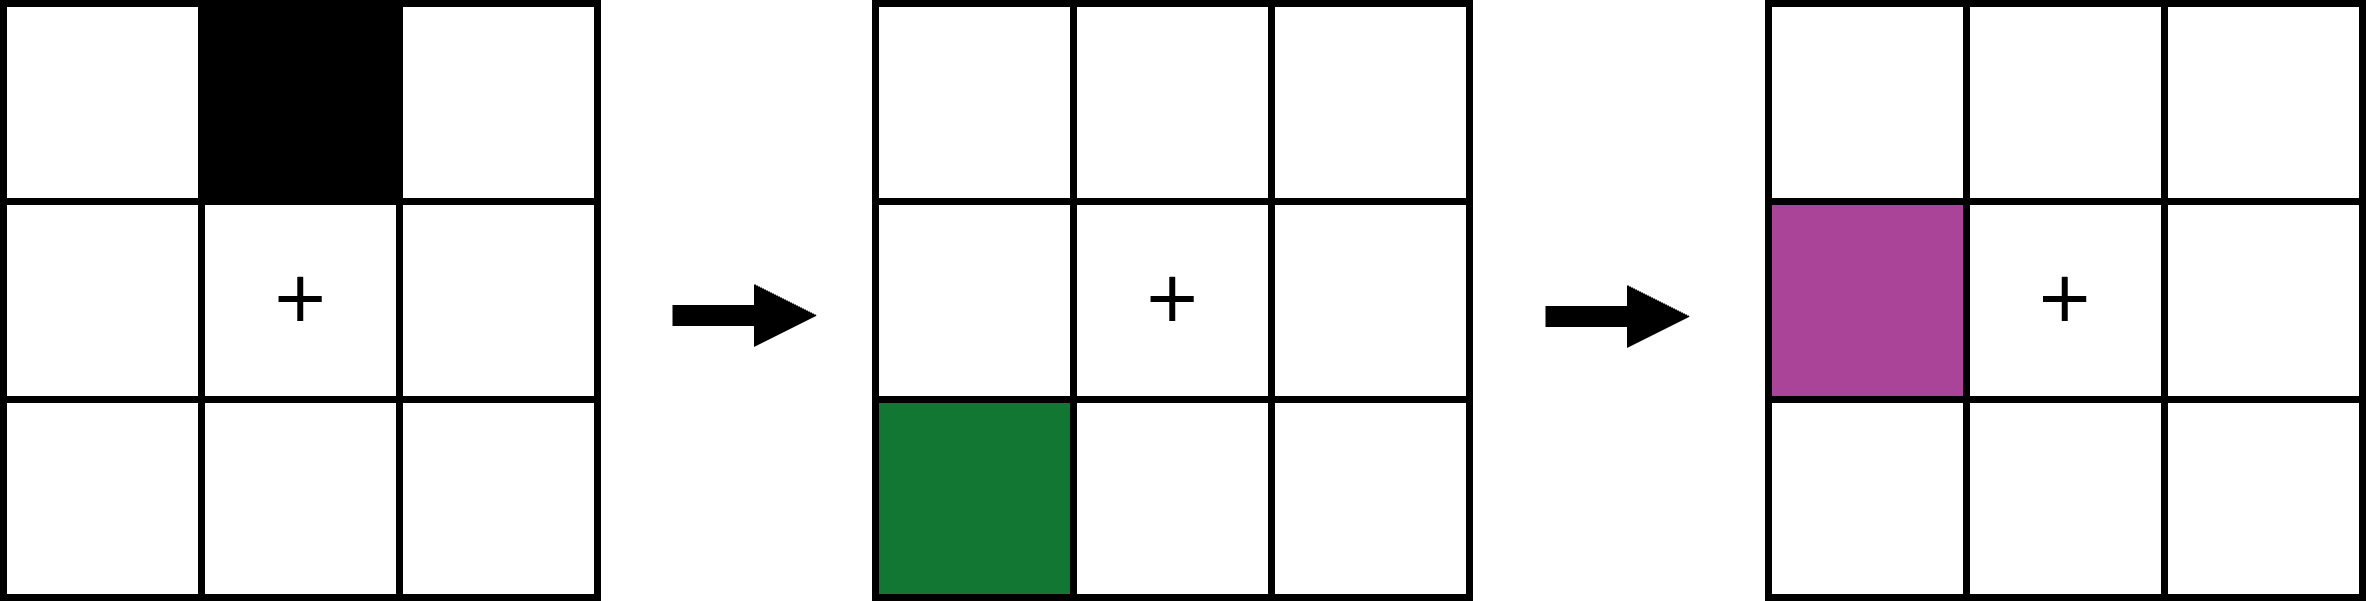
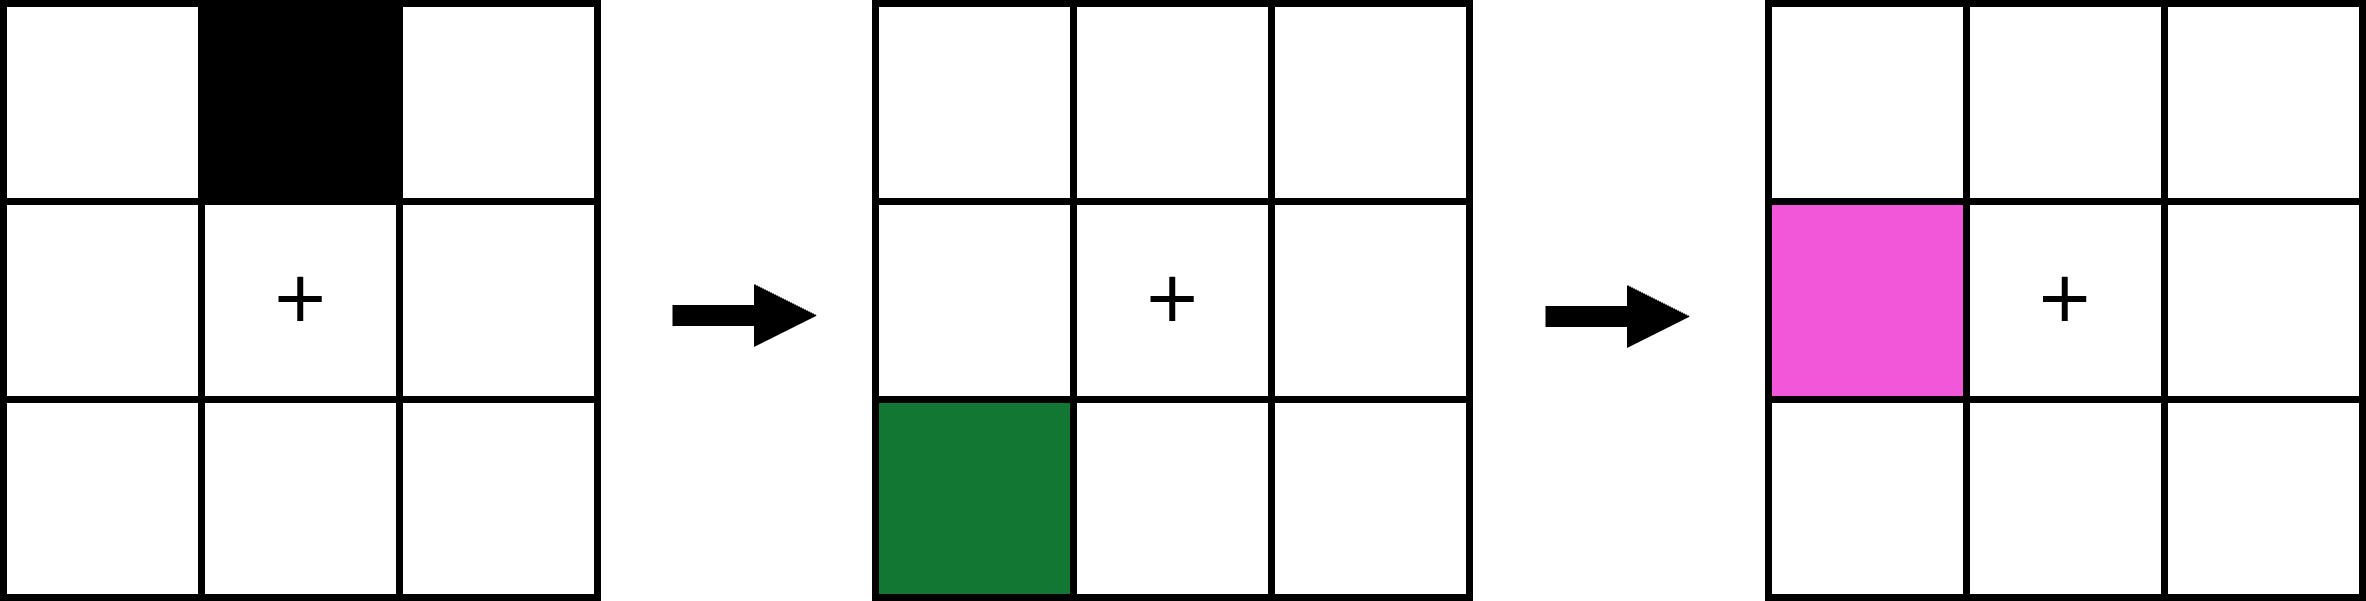
change color scheme in binding-updating instructions

Changed region(s): [[0.7405, 0.3295, 0.8331, 0.6589]]

diff --git a/materials/pilot/updating_binding/0_upd_bind_instructions.js b/materials/pilot/updating_binding/0_upd_bind_instructions.js
@@ -89,15 +89,15 @@ var bind_upd_color_instructions = {
         //page 2
         "<p style = 'text-align: center;'>"+
           "Soms wordt in elk vakje maar &#233;&#233;n kleur getoond.<br><br>" +
-          "In het voorbeeld hieronder zie je eerst '<strong><font color='#000000'>zwart</font></strong>' midden-boven, dan '<strong><font color='#117733'>groen</font></strong>' linksonder, en tot slot '<strong><font color = '#AA4499'>paars</font></strong>' linksmidden.<br>" +
-          "De kleuren die je moet onthouden zijn dus '<strong><font color='#000000'>zwart</font></strong>', '<strong><font color='#117733'>groen</font></strong>', en '<strong><font color = '#AA4499'>paars</font></strong>'.<br><br><br>" +
+          "In het voorbeeld hieronder zie je eerst '<strong><font color='#000000'>ZWART</font></strong>' midden-boven, dan '<strong><font color='#117733'>GROEN</font></strong>' linksonder, en tot slot '<strong><font color = '#F357D9'>ROZE</font></strong>' linksmidden.<br>" +
+          "De kleuren die je moet onthouden zijn dus '<strong><font color='#000000'>ZWART</font></strong>', '<strong><font color='#117733'>GROEN</font></strong>', en '<strong><font color = '#F357D9'>ROZE</font></strong>'.<br><br><br>" +
           "<img width = 500 src = updating_binding/img/instr05.png></img><br><br>",
 
         //page 3
           "Soms worden meerdere kleuren getoond in hetzelfde vakje.<br><br>" +
-          "In het voorbeeld hieronder zie je eerst '<strong><font color='#CC6677'>roze</font></strong>' rechtsmidden, dan '<strong><font color='#88CCEE'>lichtblauw</font></strong>' linksboven, en tot slot '<strong><font color='#117733'>groen</font></strong>' rechtsmidden.<br>" +
-          "In dit geval is '<strong><font color='#CC6677'>roze</font></strong>' vervangen door '<strong><font color='#117733'>groen</font></strong>'.<br>" +
-          "De kleuren die je moet onthouden zijn dus '<strong><font color='#88CCEE'>lichtblauw</font></strong>' en '<strong><font color='#117733'>groen</font></strong>'.<br><br><br>" +
+          "In het voorbeeld hieronder zie je eerst '<strong><font color='#888888'>GRIJS</font></strong>' rechtsmidden, dan '<strong><font color='#88CCEE'>BLAUW</font></strong>' linksboven, en tot slot '<strong><font color='#117733'>GROEN</font></strong>' rechtsmidden.<br>" +
+          "In dit geval is '<strong><font color='#888888'>GRIJS</font></strong>' vervangen door '<strong><font color='#117733'>GROEN</font></strong>'.<br>" +
+          "De kleuren die je moet onthouden zijn dus '<strong><font color='#88CCEE'>BLAUW</font></strong>' en '<strong><font color='#117733'>GROEN</font></strong>'.<br><br><br>" +
           '<img width = 500 src = updating_binding/img/instr06.png></img><br><br>',
 
           //page 4
@@ -145,10 +145,11 @@ var bind_upd_number_to_color_transition = {
 
         //page 2
         "<p style = 'text-align: center;'>"+
-          "In het voorbeeld hieronder zie je eerst '<strong>roze</strong>' rechtsmidden, dan '<strong>lichtblauw</strong>' linksboven, en tot slot '<strong>groen</strong>' rechtsmidden.<br>" +
-          "In dit geval is '<strong>roze</strong>' vervangen door '<strong>groen</strong>'.<br>" +
-          "De kleuren die je moet onthouden zijn dus '<strong>lichtblauw</strong>' en '<strong>groen</strong>'.<br><br><br>" +
+          "In het voorbeeld hieronder zie je eerst '<strong><font color='#888888'>GRIJS</font></strong>' rechtsmidden, dan '<strong><font color='#88CCEE'>BLAUW</font></strong>' linksboven, en tot slot '<strong><font color='#117733'>GROEN</font></strong>' rechtsmidden.<br>" +
+          "In dit geval is '<strong><font color='#888888'>GRIJS</font></strong>' vervangen door '<strong><font color='#117733'>GROEN</font></strong>'.<br>" +
+          "De kleuren die je moet onthouden zijn dus '<strong><font color='#88CCEE'>BLAUW</font></strong>' en '<strong><font color='#117733'>GROEN</font></strong>'.<br><br><br>" +
           '<img width = 500 src = updating_binding/img/instr06.png></img><br><br>',
+
 
           //page 4
           "Als alle kleuren zijn getoond geef je voor elk vakje aan welke kleur er <strong>als laatst</strong> werd getoond.<br>" +

diff --git a/materials/pilot/updating_binding/1_upd_bind_number_procedure.js b/materials/pilot/updating_binding/1_upd_bind_number_procedure.js
@@ -3,7 +3,7 @@ var bind_upd_number_step = -1 // Keep track of where we are in the current trial
 var bind_upd_number_recall_step = 0 // Keep track of where we are in the recall flow
 var number_set = ['0', '1', '2', '3', '4', '5', '6', '7', '8', '9'] // Set of all stimuli
 var nCorrectRecall = 0
-console.log(nCorrectRecall)
+
 
 // Empty grid with fixation cross
 var fixation = {
@@ -65,11 +65,8 @@ var bind_upd_number_recall = {
     task: function(){return jsPsych.timelineVariable("task")}
   },
   on_finish: function(){
-
     nCorrectRecall += jsPsych.data.get().last(1).values()[0].accuracy;
-    console.log(nCorrectRecall)
   }
-
 };
 
 
@@ -139,7 +136,7 @@ var bind_upd_number_full_loop = {
 
 // Practice feedback
 
-var bind_upd_feedback = {
+var bind_upd_number_feedback = {
   type: jsPsychHtmlKeyboardResponse,
   stimulus: function() {
     var html = "<div style='font-size:20px;'><b>Je hebt <font color='blue'>"+ nCorrectRecall +" van de " + jsPsych.timelineVariable("nBind") + "</font> nummers goed onthouden.<br><br>";
@@ -148,7 +145,7 @@ var bind_upd_feedback = {
   choices: "NO_KEYS",
   trial_duration: 1500,
   data: {
-  //  task: function(){return jsPsych.timelineVariable("task")},
+    task: function(){return jsPsych.timelineVariable("task")},
     variable: "full_feedback"
   },
   on_finish: function() {
@@ -159,7 +156,7 @@ var bind_upd_feedback = {
 
 // Practice loop
 var bind_upd_number_practice_loop = {
-  timeline: [fixation, bind_upd_number_stim_loop, bind_upd_number_recall_loop, bind_upd_feedback].flat(2),
+  timeline: [fixation, bind_upd_number_stim_loop, bind_upd_number_recall_loop, bind_upd_number_feedback].flat(2),
   timeline_variables: [
     generate_bind_upd_timeline(nBind = 2, nUpd = 0, stimset = number_set, task = "bind_upd_number_practice"),
     generate_bind_upd_timeline(nBind = 3, nUpd = 0, stimset = number_set, task = "bind_upd_number_practice"),

diff --git a/materials/pilot/updating_binding/2_upd_bind_color_procedure.js b/materials/pilot/updating_binding/2_upd_bind_color_procedure.js
@@ -2,6 +2,9 @@
 var bind_upd_color_step = -1 // Keep track of where we are in the current trial flow
 var recall_step = 0 // Keep track of where we are in the recall flow
 var color_set = ['#117733','#DDCC77','#661100','#F357D9','#88CCEE','#332288','#888888','#000000'] // Set of all stimuli
+var nCorrectRecall = 0
+
+
 // Empty grid with fixation cross
 var fixation = {
   on_start: function(){
@@ -66,6 +69,9 @@ var bind_upd_color_recall = {
   data: {
     variable: 'recall',
     task: function(){return jsPsych.timelineVariable("task")}
+  },
+  on_finish: function(){
+    nCorrectRecall += jsPsych.data.get().last(1).values()[0].accuracy;
   }
 };
 
@@ -135,9 +141,29 @@ var bind_upd_color_full_loop = {
   randomize: true
 }
 
+
+// Practice feedback
+
+var bind_upd_color_feedback = {
+  type: jsPsychHtmlKeyboardResponse,
+  stimulus: function() {
+    var html = "<div style='font-size:20px;'><b>Je hebt <font color='blue'>"+ nCorrectRecall +" van de " + jsPsych.timelineVariable("nBind") + "</font> kleuren goed onthouden.<br><br>";
+    return html
+  },
+  choices: "NO_KEYS",
+  trial_duration: 1500,
+  data: {
+    task: function(){return jsPsych.timelineVariable("task")},
+    variable: "full_feedback"
+  },
+  on_finish: function() {
+    nCorrectRecall = 0
+  }
+}
+
 // Practice loop
 var bind_upd_color_practice_loop = {
-  timeline: [fixation, bind_upd_color_stim_loop, bind_upd_color_recall_loop].flat(2),
+  timeline: [fixation, bind_upd_color_stim_loop, bind_upd_color_recall_loop, bind_upd_color_feedback].flat(2),
   timeline_variables: [
     generate_bind_upd_timeline(nBind = 2, nUpd = 0, stimset = color_set, task = "bind_upd_color_practice"),
     generate_bind_upd_timeline(nBind = 3, nUpd = 0, stimset = color_set, task = "bind_upd_color_practice"),

diff --git a/materials/pilot/index.html b/materials/pilot/index.html
@@ -187,8 +187,7 @@ var counterbalance = jsPsych.randomization.sampleWithoutReplacement([test_order1
 
 var full_experiment_timeline = [
     fullscreenmode,
-    test_order4
-    //counterbalance
+    counterbalance
     ].flat(2)
 
 //var timeline = binding_updating_timeline
